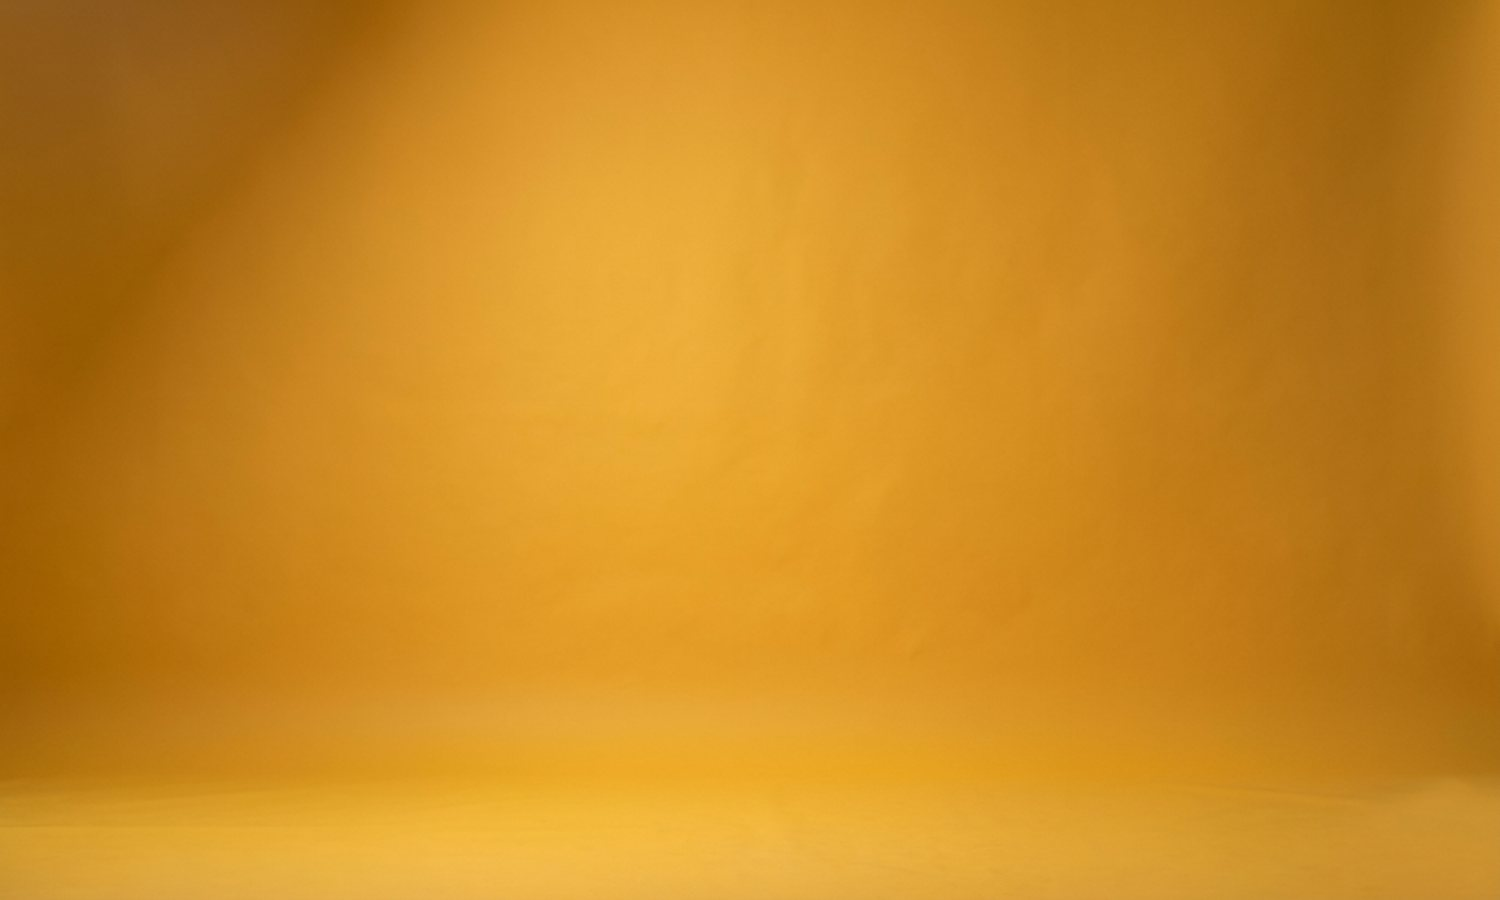
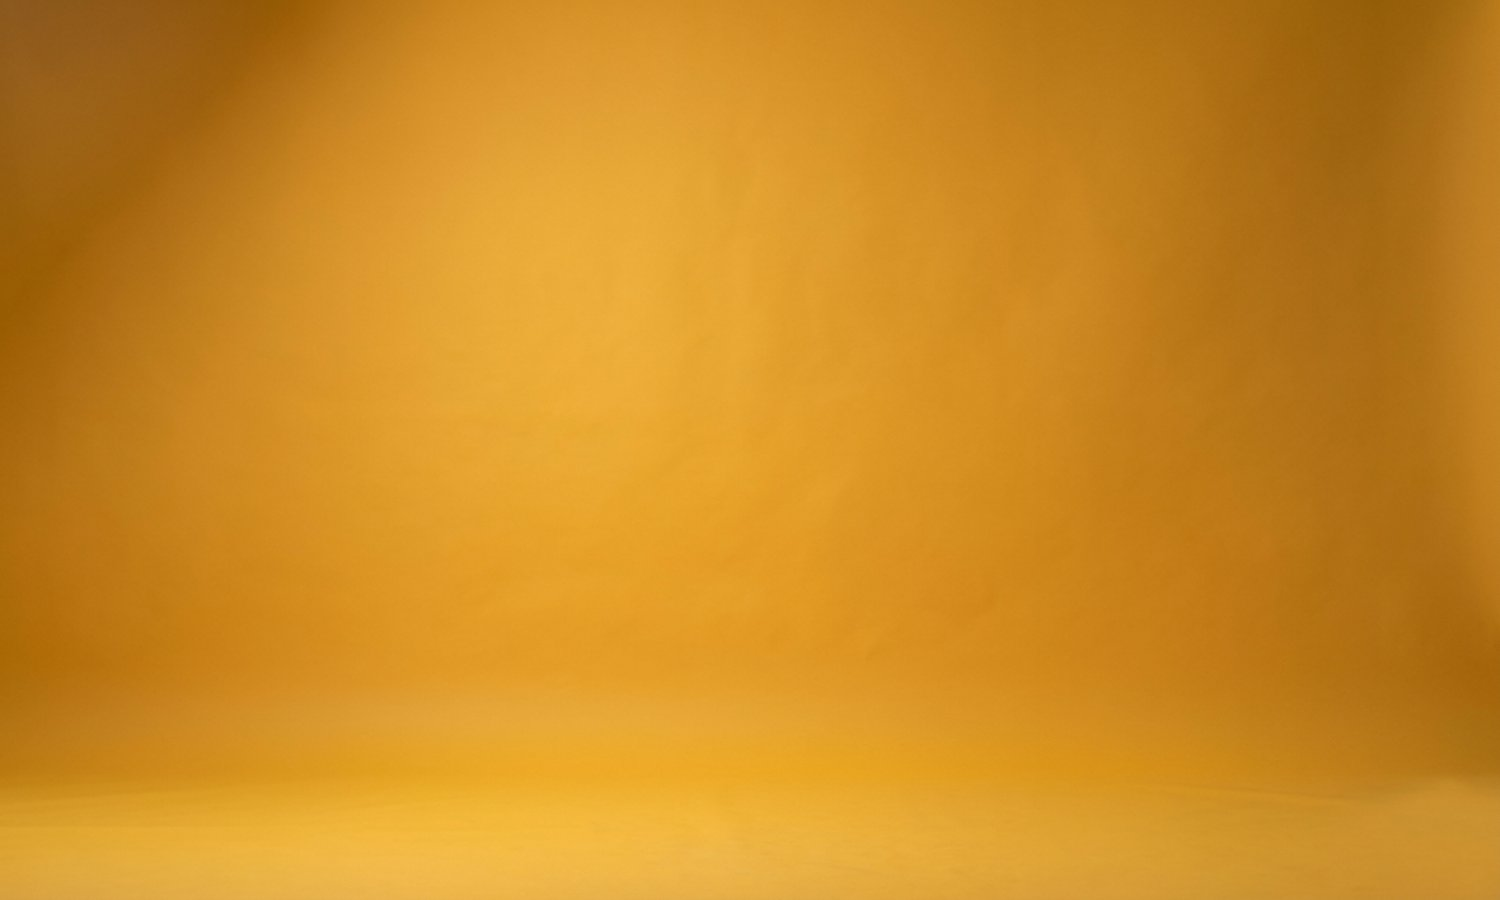
Landing: fuera la tarjeta de Puntos del carrusel + los 3 fondos sin deformar
Sergio: 'quita la tarjeta de los puntos, esa informacion la colocamos mas
abajo'. Fuera el fondo, la escena animada, la tarjeta y su entrada en DATOS;
el contador pasa de 06 a 05. Las fotos y los estilos se quedan aparcados: van
a reaparecer en su propia seccion.

Y se rehacen los TRES fondos horizontales, que estaban ESTIRADOS. La foto que
genero es mas apaisada (1,792) que el hueco de la portada (1,667): habia que
recortarle los lados y yo le pedia mas alto del que tenia, asi que PIL
rellenaba fuera de los limites y al reescalar todo salia deforme a lo alto.
Sergio lo vio de una en la de puntos; le pasaba igual a comprobantes y
rentabilidad. Ahora se recorta el ancho por la izquierda, que es donde no esta
el personaje.

Nota de metodo: la tarjeta se borro por LINEA, no con una expresion regular.
Un '.*?' hasta '</div></div>' se comio 2.233 caracteres —las tarjetas
siguientes y el contador— antes de que lo pillara.

Changed region(s): [[0.184, 0.0, 0.276, 0.2489], [0.0613, 0.3111, 0.1227, 0.3733]]

diff --git a/index.html b/index.html
@@ -724,7 +724,14 @@ a{color:inherit;text-decoration:none}
   .rx-v{font-size:14px}
 }
 
-/* ══ PUNTOS Y PREMIOS: el contador corre y el nivel se desbloquea ═════════
+/* ══ PUNTOS Y PREMIOS — APARCADO ═════════════════════════
+
+   Estos estilos se quedan a proposito. La tarjeta salio del carrusel de
+   la portada el 2-sep-2026 (Sergio: «esa informacion la colocamos mas
+   abajo, igual tenemos espacio») y van a volver a usarse en su propia
+   seccion. Las fotos siguen en img/landing/*-puntos.jpg.
+
+   El contador corre y el nivel se desbloquea despues ═════════
 
    Las manos con los platos ya vienen en la foto. Aqui solo se anima lo que
    sale del telefono. El ciclo dura 9 s: cuenta, respira, se va y vuelve.   */
@@ -839,7 +846,6 @@ a{color:inherit;text-decoration:none}
       <div class="hf" data-i="2"><div class="ph" data-et="fondo · Pantalla de cocina" style="background-image:url(img/landing/fondo-cocina.jpg)"></div></div>
       <div class="hf" data-i="3"><div class="ph" data-et="fondo · Comprobantes" style="background-image:url(img/landing/fondo-comprobantes.jpg)"></div><div class="cx" id="cx" aria-hidden="true"></div></div>
       <div class="hf" data-i="4"><div class="ph" data-et="fondo · Rentabilidad" style="background-image:url(img/landing/fondo-rentabilidad.jpg)"></div><div class="rx" id="rx" aria-hidden="true"></div></div>
-      <div class="hf" data-i="5"><div class="ph" data-et="fondo · Puntos y premios" style="background-image:url(img/landing/fondo-puntos.jpg)"></div><div class="px" id="px" aria-hidden="true"></div></div>
   </div>
   <div class="velo"></div><div class="rejilla"></div>
 
@@ -872,7 +878,6 @@ a{color:inherit;text-decoration:none}
         <div class="tj" role="button" tabindex="0" data-id="cocina"><div class="ph claro" data-et="tarjeta · Pantalla de cocina" style="background-image:url(img/landing/tarjeta-cocina.jpg)"></div><span class="tj-txt"><span class="tj-cuando">En la plancha</span><span class="tj-nom">Pantalla de cocina</span></span></div>
         <div class="tj" role="button" tabindex="0" data-id="comprobantes"><div class="ph claro" data-et="tarjeta · Comprobantes" style="background-image:url(img/landing/tarjeta-comprobantes.jpg)"></div><span class="tj-txt"><span class="tj-cuando">Un Nequi a las 11 p. m.</span><span class="tj-nom">Comprobantes</span></span></div>
         <div class="tj" role="button" tabindex="0" data-id="rentabilidad"><div class="ph claro" data-et="tarjeta · Rentabilidad" style="background-image:url(img/landing/tarjeta-rentabilidad.jpg)"></div><span class="tj-txt"><span class="tj-cuando">Al cerrar el mes</span><span class="tj-nom">Rentabilidad</span></span></div>
-        <div class="tj" role="button" tabindex="0" data-id="puntos"><div class="ph claro" data-et="tarjeta · Puntos y premios" style="background-image:url(img/landing/tarjeta-puntos.jpg)"></div><span class="tj-txt"><span class="tj-cuando">Cuando vuelve</span><span class="tj-nom">Puntos y premios</span></span></div>
         <div class="tj" role="button" tabindex="0" data-id="chat"><div class="ph claro" data-et="tarjeta · Chat automático" style="background-image:url(img/landing/tarjeta-chat.jpg)"></div><span class="tj-txt"><span class="tj-cuando">Sábado, 8:40 p. m.</span><span class="tj-nom">Chat automático</span></span></div>
       </div>
     </div>
@@ -884,7 +889,7 @@ a{color:inherit;text-decoration:none}
         <svg viewBox="0 0 24 24" fill="none" stroke="currentColor" stroke-width="2.2" stroke-linecap="round" stroke-linejoin="round"><path d="M9 18l6-6-6-6"/></svg>
       </button>
       <span class="carr-linea"><i id="carr-avance"></i></span>
-      <span class="carr-num"><b id="carr-n">01</b><span>/ 06</span></span>
+      <span class="carr-num"><b id="carr-n">01</b><span>/ 05</span></span>
     </div>
   </div>
 
@@ -1432,15 +1437,6 @@ window.CobraPlan.iniciar({
     "t2": "te deja",
     "t3": "plata",
     "sub": "Costo real de cada plato, margen por producto y el semáforo que avisa cuál dejó de ser rentable."
-  },
-  {
-    "id": "puntos",
-    "nombre": "Puntos y premios",
-    "cuando": "Cuando vuelve",
-    "t1": "El cliente",
-    "t2": "vuelve",
-    "t3": "solo",
-    "sub": "Puntos por cada compra, premios que tú decides, y un mensaje que le recuerda que los tiene."
   }
 ];
   var PAUSA = 4000;          // lo que dura cada tarjeta, medido del video
@@ -1693,46 +1689,6 @@ window.CobraPlan.iniciar({
       +   '<div class="rx-2">' + a[2] + '</div></div>'
       + '<div class="rx-v" style="color:' + a[4] + '">' + a[3] + '</div></div>';
   }).join('');
-})();
-</script>
-
-<script>
-/*  ══ EL CONTADOR DE PUNTOS ═══════════════════════════════════════════════
-    Sube de 0 a 240 con un frenado suave —rapido al principio y lento al
-    final, que es como se siente un contador de verdad— y se reinicia con
-    cada vuelta del ciclo de 9 s, en el mismo momento en que la animacion de
-    CSS vuelve a empezar. Asi el numero y el movimiento van juntos.        */
-(function () {
-  var caja = document.getElementById('px');
-  if (!caja) return;
-
-  var META = 240, CICLO = 9000, CUENTA = 1400;   // ms
-
-  var chispas = [['53%','62%',16],['58%','54%',20],['61%','46%',24],
-                 ['56%','38%',19],['65%','34%',15]];
-  caja.innerHTML =
-      '<div class="px-c"><div class="px-n" id="px-n">0</div><div class="px-l">puntos</div></div>'
-    + '<div class="px-niv"><i></i> Nivel Oro desbloqueado</div>'
-    + chispas.map(function (c, i) {
-        return '<span class="px-ch" style="left:' + c[0] + ';top:' + c[1] + ';font-size:' + c[2]
-             + 'px;animation-delay:' + (i * 0.22).toFixed(2) + 's">+</span>';
-      }).join('');
-
-  var n = document.getElementById('px-n');
-  /*  Si alguien pidio menos movimiento, el numero se queda quieto en su
-      valor final: se entiende igual y no se le mueve nada en la cara.    */
-  if (window.matchMedia && window.matchMedia('(prefers-reduced-motion: reduce)').matches) {
-    n.textContent = '+' + META; return;
-  }
-
-  var t0 = performance.now();
-  (function marco(t) {
-    var d = (t - t0) % CICLO;
-    var k = Math.min(1, d / CUENTA);
-    var suave = 1 - Math.pow(1 - k, 3);          // frena al final
-    n.textContent = '+' + Math.round(META * suave);
-    requestAnimationFrame(marco);
-  })(t0);
 })();
 </script>
 </body>
